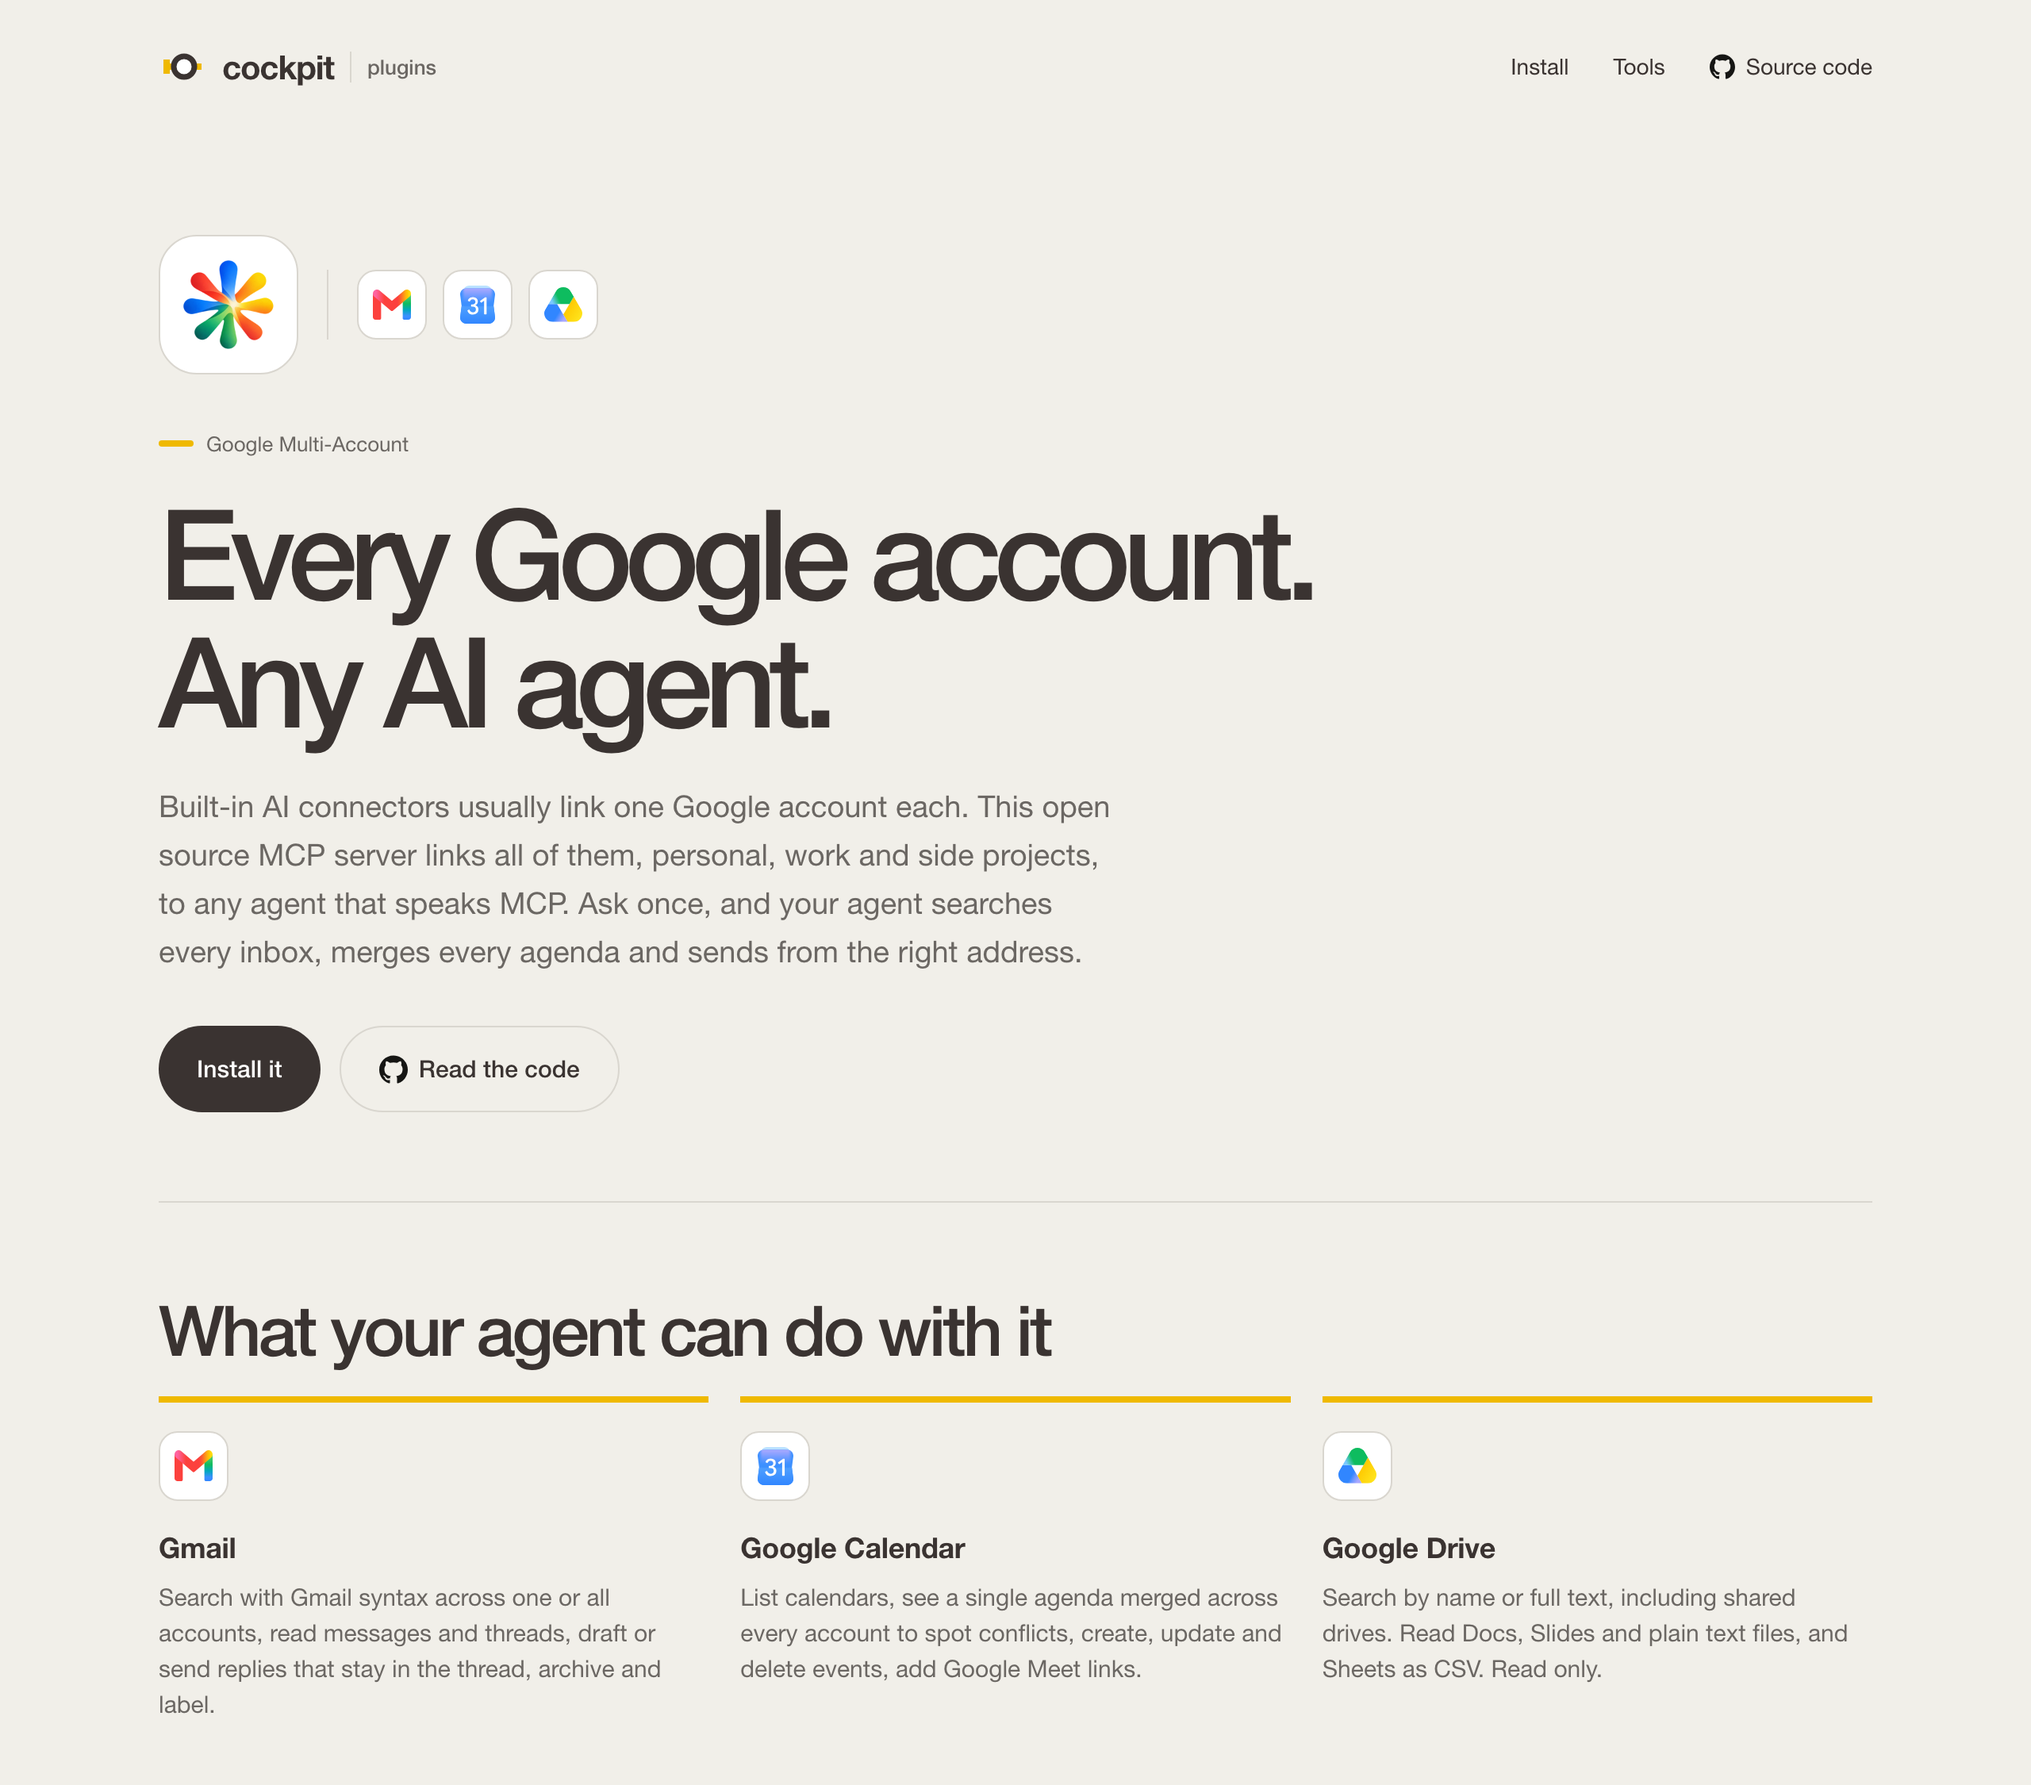
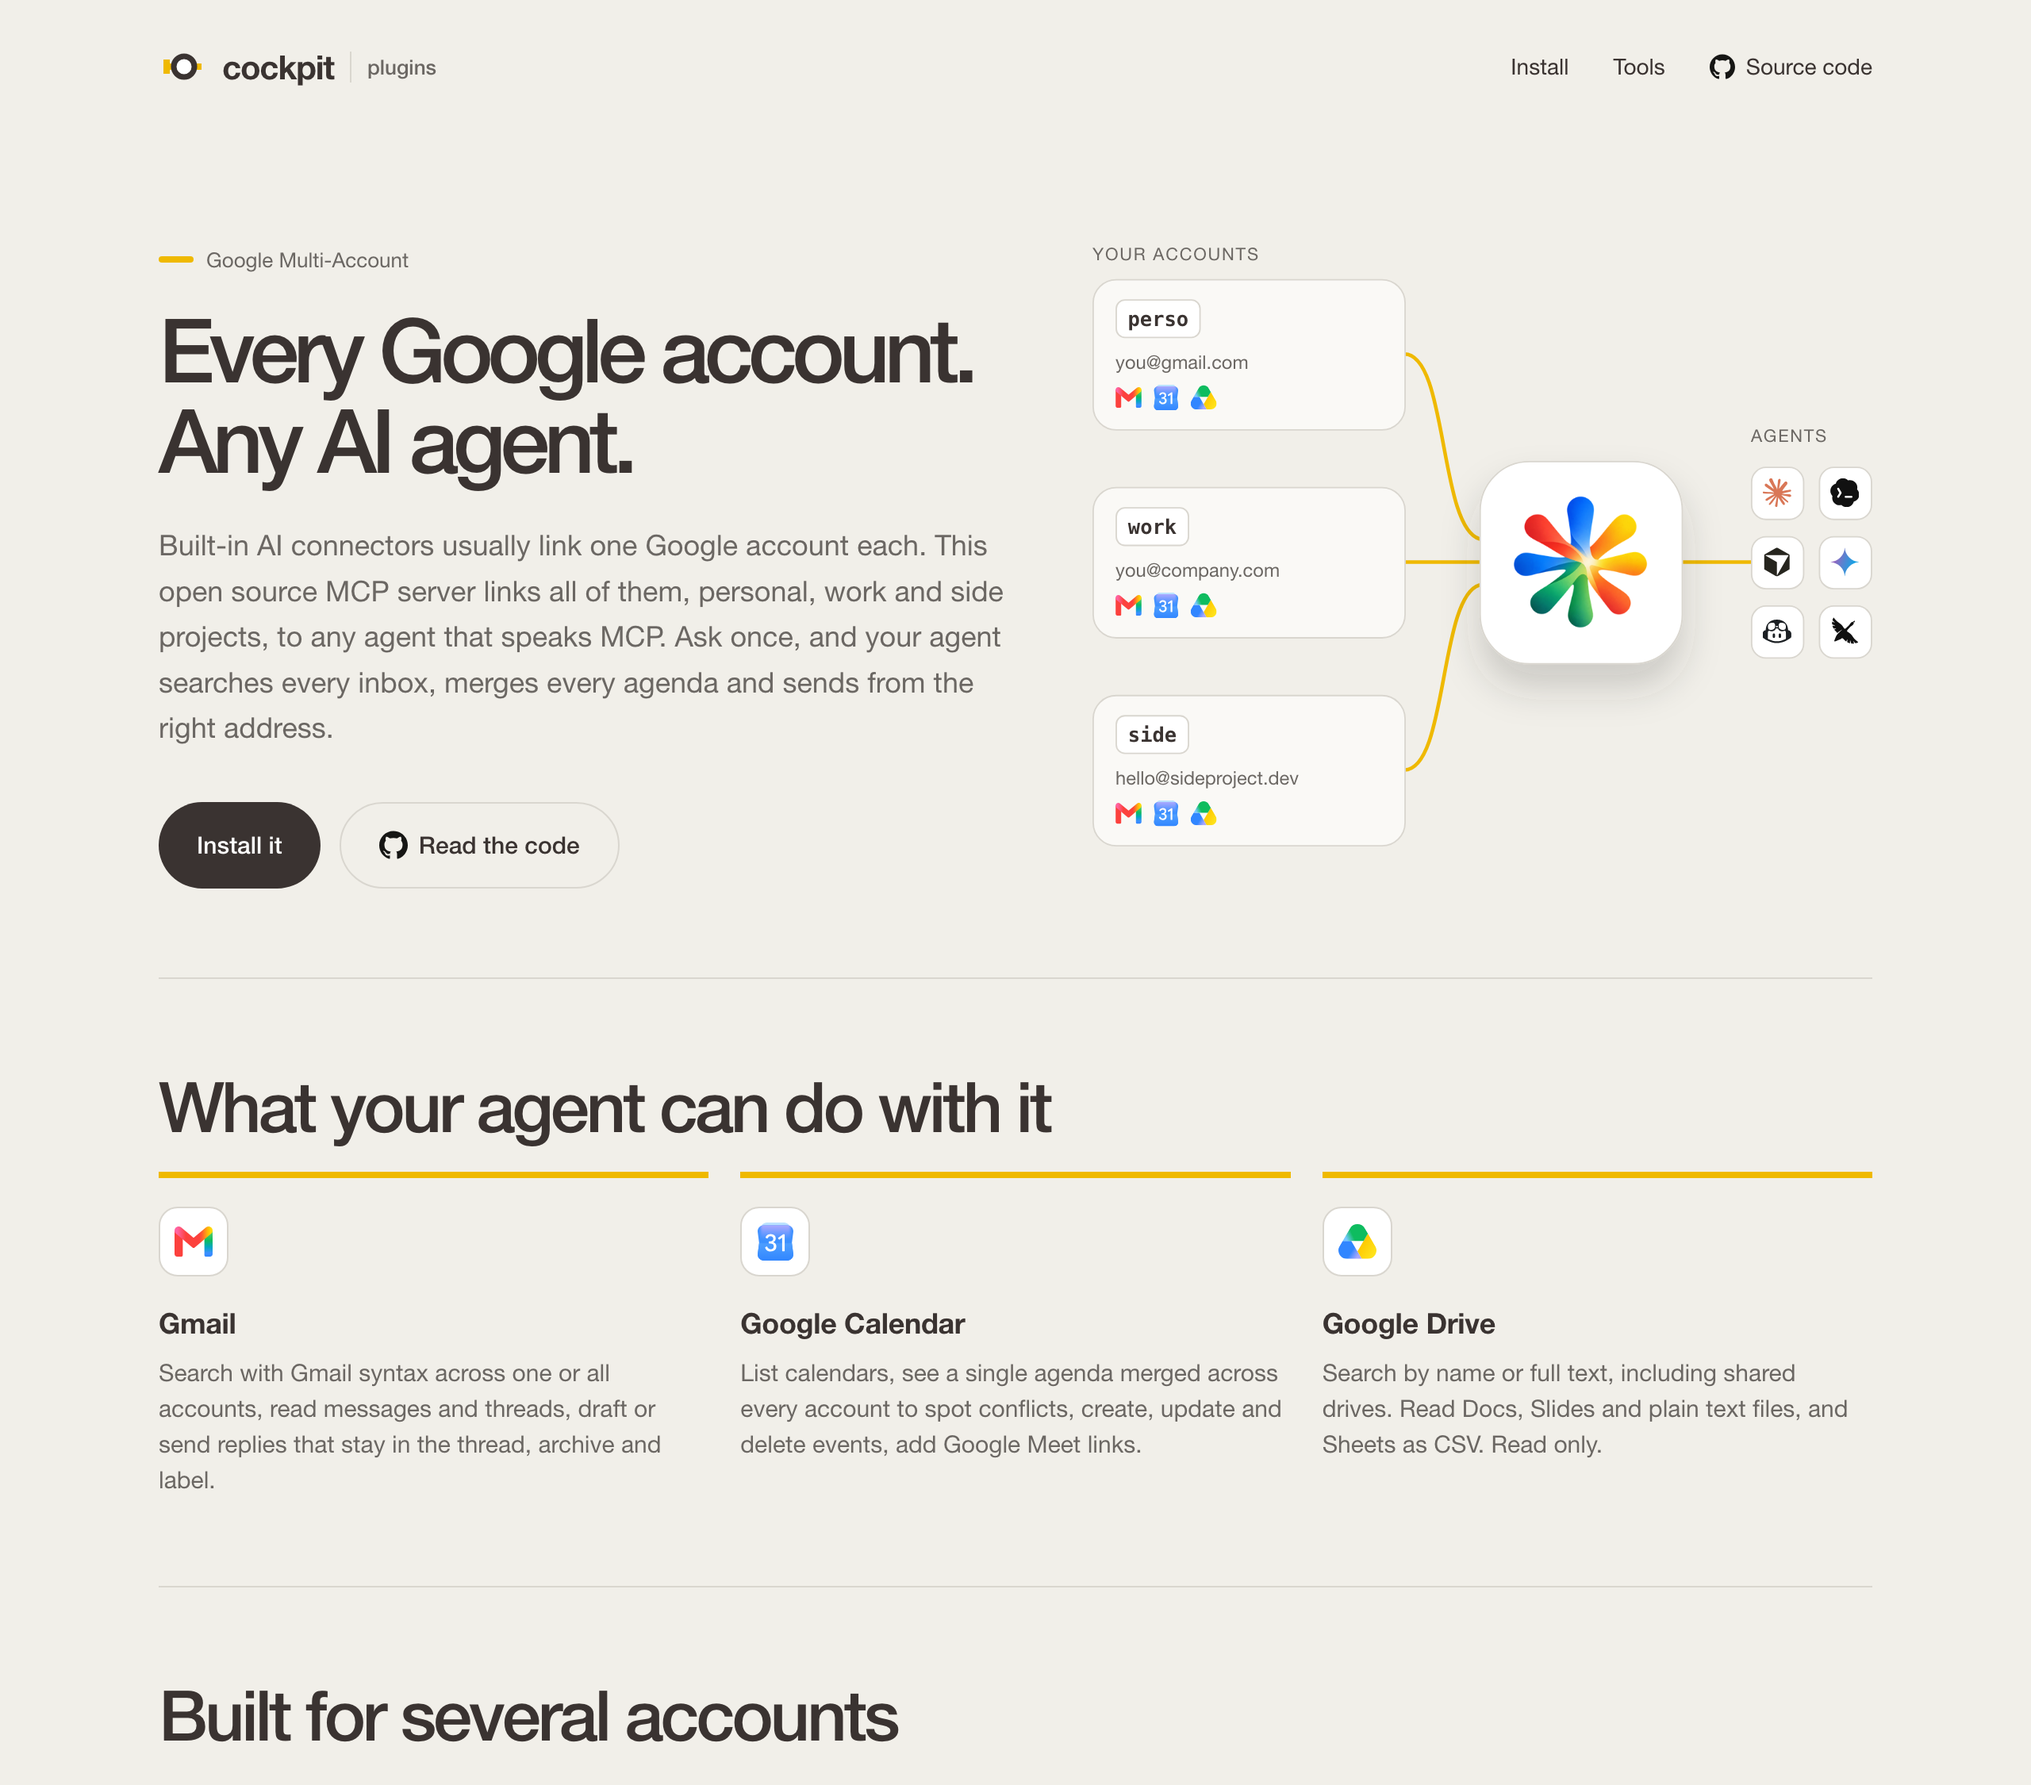
feat: open the Google Multi-Account page with the accounts diagram
- Replace the row of logos with a two-column hero: the copy, then a
  diagram of three accounts reaching the agents through the plugin
- Draw the diagram as inline SVG styled with the site tokens, stacked
  under the copy below 981 px
- Version the stylesheet URL so a new page never loads a cached,
  outdated stylesheet, and document the rule in the README
- Refresh the screenshot of the plugin page

diff --git a/public/google-multi/index.html b/public/google-multi/index.html
@@ -7,7 +7,7 @@
 <meta name="description" content="An open source MCP server that connects several Gmail, Google Calendar and Google Drive accounts to Claude, Codex, Cursor or any MCP client at the same time. Runs locally, uses your own OAuth client.">
 <meta name="referrer" content="strict-origin-when-cross-origin">
 <link rel="icon" href="../assets/mark.svg">
-<link rel="stylesheet" href="../style.css">
+<link rel="stylesheet" href="../style.css?v=20261013">
 </head>
 <body>
 <a class="skip-link" href="#main">Skip to content</a>
@@ -21,22 +21,70 @@
 </header>
 
 <main id="main">
-  <section class="hero wrap">
-    <div class="plugin-identity">
-      <span class="plugin-logo"><img src="../assets/google-multi.png" width="64" height="64" alt="Google Multi-Account logo"></span>
-      <div class="service-logos" aria-label="Gmail, Google Calendar and Google Drive">
-        <span class="logo"><img src="../assets/gmail.svg" width="24" height="24" alt="Gmail"></span>
-        <span class="logo"><img src="../assets/google-calendar.svg" width="24" height="24" alt="Google Calendar"></span>
-        <span class="logo"><img src="../assets/google-drive.svg" width="24" height="24" alt="Google Drive"></span>
+  <section class="hero split wrap">
+    <div class="hero-copy">
+      <p class="eyebrow">Google Multi-Account</p>
+      <h1>Every Google account.<br>Any AI agent.</h1>
+      <p class="lead">Built-in AI connectors usually link one Google account each. This open source MCP server links all of them, personal, work and side projects, to any agent that speaks MCP. Ask once, and your agent searches every inbox, merges every agenda and sends from the right address.</p>
+      <div class="actions">
+        <a class="button" href="#install">Install it</a>
+        <a class="button ghost" href="https://github.com/dathims/google-multi-mcp"><span class="gh"><img src="../assets/github.svg" width="18" height="18" alt="">Read the code</span></a>
       </div>
     </div>
-    <p class="eyebrow">Google Multi-Account</p>
-    <h1>Every Google account.<br>Any AI agent.</h1>
-    <p class="lead">Built-in AI connectors usually link one Google account each. This open source MCP server links all of them, personal, work and side projects, to any agent that speaks MCP. Ask once, and your agent searches every inbox, merges every agenda and sends from the right address.</p>
-    <div class="actions">
-      <a class="button" href="#install">Install it</a>
-      <a class="button ghost" href="https://github.com/dathims/google-multi-mcp"><span class="gh"><img src="../assets/github.svg" width="18" height="18" alt="">Read the code</span></a>
-    </div>
+
+    <svg class="flow" viewBox="0 0 540 440" role="img" aria-label="Three Google accounts, perso, work and side, each with Gmail, Google Calendar and Google Drive, connected through Google Multi-Account to Claude, Codex, Cursor, Gemini CLI, GitHub Copilot and Goose">
+      <defs>
+        <filter id="flow-shadow" x="-40%" y="-30%" width="180%" height="190%"><feDropShadow dx="0" dy="16" stdDeviation="13" flood-color="#3a3331" flood-opacity=".2"/></filter>
+      </defs>
+      <g class="wires">
+        <path d="M216 76 C246 76 240 196 268 204"/>
+        <path d="M216 220 H268"/>
+        <path d="M216 364 C246 364 240 244 268 236"/>
+        <path d="M408 220 H456"/>
+      </g>
+
+      <text class="label" x="0" y="11">Your accounts</text>
+      <g class="account">
+        <rect class="tile" x=".5" y="24.5" width="216" height="104" rx="16"/>
+        <rect class="chip" x="16.5" y="38.5" width="58" height="26" rx="6"/>
+        <text class="alias" x="45.5" y="56.5">perso</text>
+        <text class="mail" x="16" y="86">you@gmail.com</text>
+        <image href="../assets/gmail.svg" x="16" y="97" width="18" height="18"/>
+        <image href="../assets/google-calendar.svg" x="42" y="97" width="18" height="18"/>
+        <image href="../assets/google-drive.svg" x="68" y="97" width="18" height="18"/>
+      </g>
+      <g class="account">
+        <rect class="tile" x=".5" y="168.5" width="216" height="104" rx="16"/>
+        <rect class="chip" x="16.5" y="182.5" width="50" height="26" rx="6"/>
+        <text class="alias" x="41.5" y="200.5">work</text>
+        <text class="mail" x="16" y="230">you@company.com</text>
+        <image href="../assets/gmail.svg" x="16" y="241" width="18" height="18"/>
+        <image href="../assets/google-calendar.svg" x="42" y="241" width="18" height="18"/>
+        <image href="../assets/google-drive.svg" x="68" y="241" width="18" height="18"/>
+      </g>
+      <g class="account">
+        <rect class="tile" x=".5" y="312.5" width="216" height="104" rx="16"/>
+        <rect class="chip" x="16.5" y="326.5" width="50" height="26" rx="6"/>
+        <text class="alias" x="41.5" y="344.5">side</text>
+        <text class="mail" x="16" y="374">hello@sideproject.dev</text>
+        <image href="../assets/gmail.svg" x="16" y="385" width="18" height="18"/>
+        <image href="../assets/google-calendar.svg" x="42" y="385" width="18" height="18"/>
+        <image href="../assets/google-drive.svg" x="68" y="385" width="18" height="18"/>
+      </g>
+
+      <rect class="hub" x="268.5" y="150.5" width="140" height="140" rx="34" filter="url(#flow-shadow)"/>
+      <image href="../assets/google-multi.png" x="286" y="168" width="104" height="104"/>
+
+      <text class="label" x="456" y="137">Agents</text>
+      <g class="agent-tiles">
+        <rect class="chip" x="456.5" y="154.5" width="36" height="36" rx="10"/><image href="../assets/claude.svg" x="464" y="162" width="20" height="20"/>
+        <rect class="chip" x="503.5" y="154.5" width="36" height="36" rx="10"/><image href="../assets/codex.svg" x="511" y="162" width="20" height="20"/>
+        <rect class="chip" x="456.5" y="202.5" width="36" height="36" rx="10"/><image href="../assets/cursor.svg" x="464" y="210" width="20" height="20"/>
+        <rect class="chip" x="503.5" y="202.5" width="36" height="36" rx="10"/><image href="../assets/gemini.svg" x="511" y="210" width="20" height="20"/>
+        <rect class="chip" x="456.5" y="250.5" width="36" height="36" rx="10"/><image href="../assets/copilot.svg" x="464" y="258" width="20" height="20"/>
+        <rect class="chip" x="503.5" y="250.5" width="36" height="36" rx="10"/><image href="../assets/goose.svg" x="511" y="258" width="20" height="20"/>
+      </g>
+    </svg>
   </section>
 
   <section class="block wrap" aria-labelledby="features-title">

diff --git a/public/style.css b/public/style.css
@@ -148,14 +148,20 @@ dl.publisher dd { margin: 0; }
 .service-logos .logo img, .agent .logo img, .feature .logo img { width: 24px; height: 24px; object-fit: contain; }
 .feature .logo { margin-bottom: 16px; }
 
-/* Plugin logo, shown in the hero next to the services it connects */
-.plugin-identity { display: flex; align-items: center; gap: 18px; margin-bottom: 28px; }
-.plugin-logo {
-  display: grid; place-items: center; width: 88px; height: 88px; flex: none;
-  border-radius: 24px; background: #fff; border: 1px solid var(--line);
+/* Plugin hero: the copy, then a diagram of the accounts reaching the agents through the plugin */
+.flow { width: 100%; max-width: 540px; height: auto; margin-top: 44px; overflow: visible; }
+.flow .wires { fill: none; stroke: var(--yellow); stroke-width: 2.5; stroke-linecap: round; }
+.flow .tile { fill: var(--surface); stroke: var(--line); }
+.flow .chip, .flow .hub { fill: #fff; stroke: var(--line); }
+.flow .label { font-size: 12px; letter-spacing: .08em; text-transform: uppercase; fill: var(--muted); }
+.flow .alias { font: 600 14px ui-monospace, "SF Mono", Menlo, monospace; text-anchor: middle; fill: var(--ink); }
+.flow .mail { font-size: 13px; fill: var(--muted); }
+@media (min-width: 981px) {
+  .hero.split { display: grid; grid-template-columns: minmax(0, 1.1fr) minmax(0, 1fr); gap: 48px; align-items: center; }
+  .hero.split h1 { font-size: clamp(40px, 4.8vw, 56px); }
+  .hero.split .lead { font-size: 18px; }
+  .flow { margin-top: 0; justify-self: end; }
 }
-.plugin-logo img { width: 64px; height: 64px; }
-.plugin-identity .service-logos { padding-left: 18px; border-left: 1px solid var(--line); }
 
 /* Works with: MCP clients */
 .agents { display: grid; grid-template-columns: repeat(auto-fill, minmax(190px, 1fr)); gap: 12px; }

diff --git a/public/index.html b/public/index.html
@@ -7,7 +7,7 @@
 <meta name="description" content="Open source MCP servers by Cockpit. Run them on your own machine and connect your tools to Claude, Codex, Cursor, Gemini CLI or any agent that speaks the Model Context Protocol.">
 <meta name="referrer" content="strict-origin-when-cross-origin">
 <link rel="icon" href="assets/mark.svg">
-<link rel="stylesheet" href="style.css">
+<link rel="stylesheet" href="style.css?v=20261013">
 </head>
 <body>
 <a class="skip-link" href="#main">Skip to content</a>

diff --git a/public/privacy/index.html b/public/privacy/index.html
@@ -7,7 +7,7 @@
 <meta name="description" content="How Cockpit plugins, including Google Multi-Account, handle your data and Google user data.">
 <meta name="referrer" content="strict-origin-when-cross-origin">
 <link rel="icon" href="../assets/mark.svg">
-<link rel="stylesheet" href="../style.css">
+<link rel="stylesheet" href="../style.css?v=20261013">
 </head>
 <body>
 <a class="skip-link" href="#main">Skip to content</a>

diff --git a/public/terms/index.html b/public/terms/index.html
@@ -7,7 +7,7 @@
 <meta name="description" content="Terms of use and legal notice for plugin.usecockpit.co and Cockpit plugins.">
 <meta name="referrer" content="strict-origin-when-cross-origin">
 <link rel="icon" href="../assets/mark.svg">
-<link rel="stylesheet" href="../style.css">
+<link rel="stylesheet" href="../style.css?v=20261013">
 </head>
 <body>
 <a class="skip-link" href="#main">Skip to content</a>

diff --git a/README.md b/README.md
@@ -53,6 +53,8 @@ npm run check
 
 `npm run check` verifies the internal links and rejects long dashes (en and em dashes). GitHub Actions runs it on every push and every pull request.
 
+When you change `public/style.css`, bump the `?v=` value of the stylesheet link in every page. GitHub Pages lets browsers keep the file for 10 minutes, and a new page loaded with the previous stylesheet looks broken.
+
 ## Adding a plugin
 
 1. Create `public/<plugin>/index.html` by copying `public/google-multi/index.html`.
